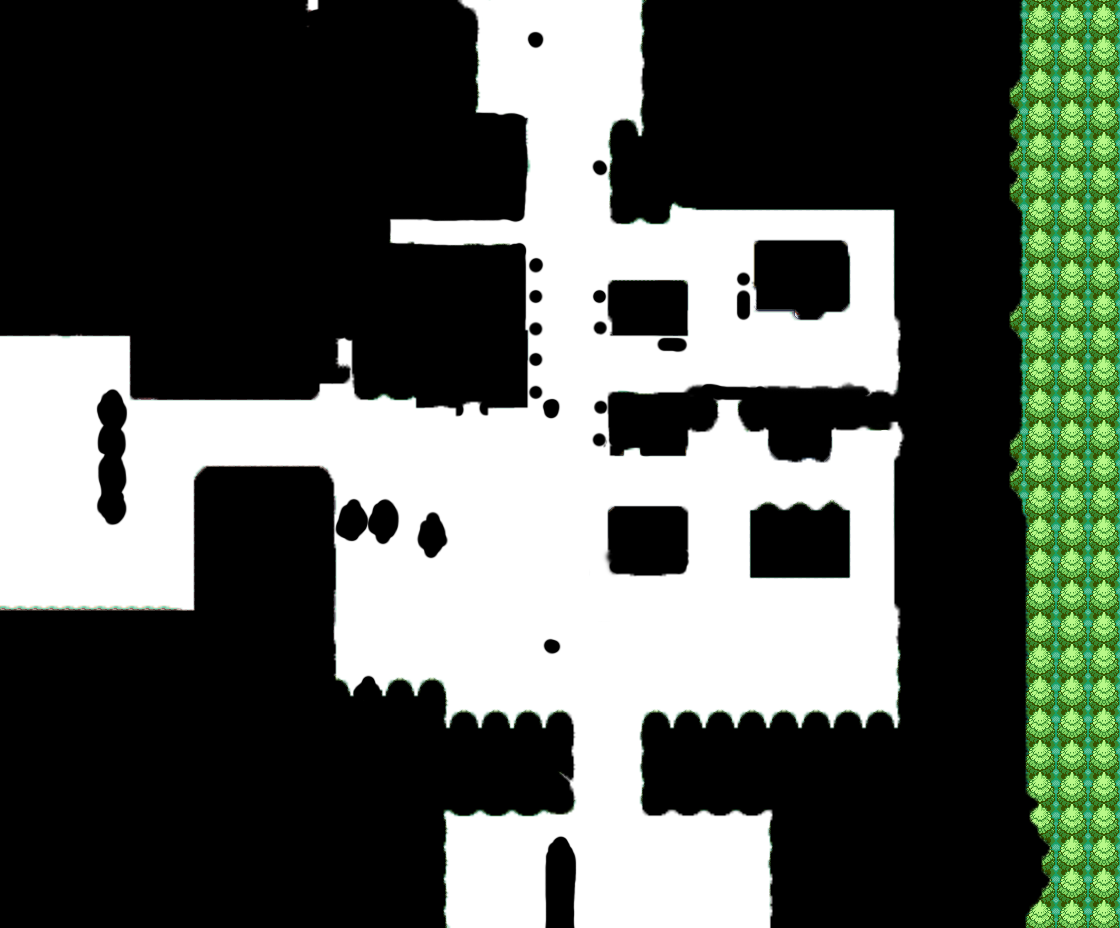
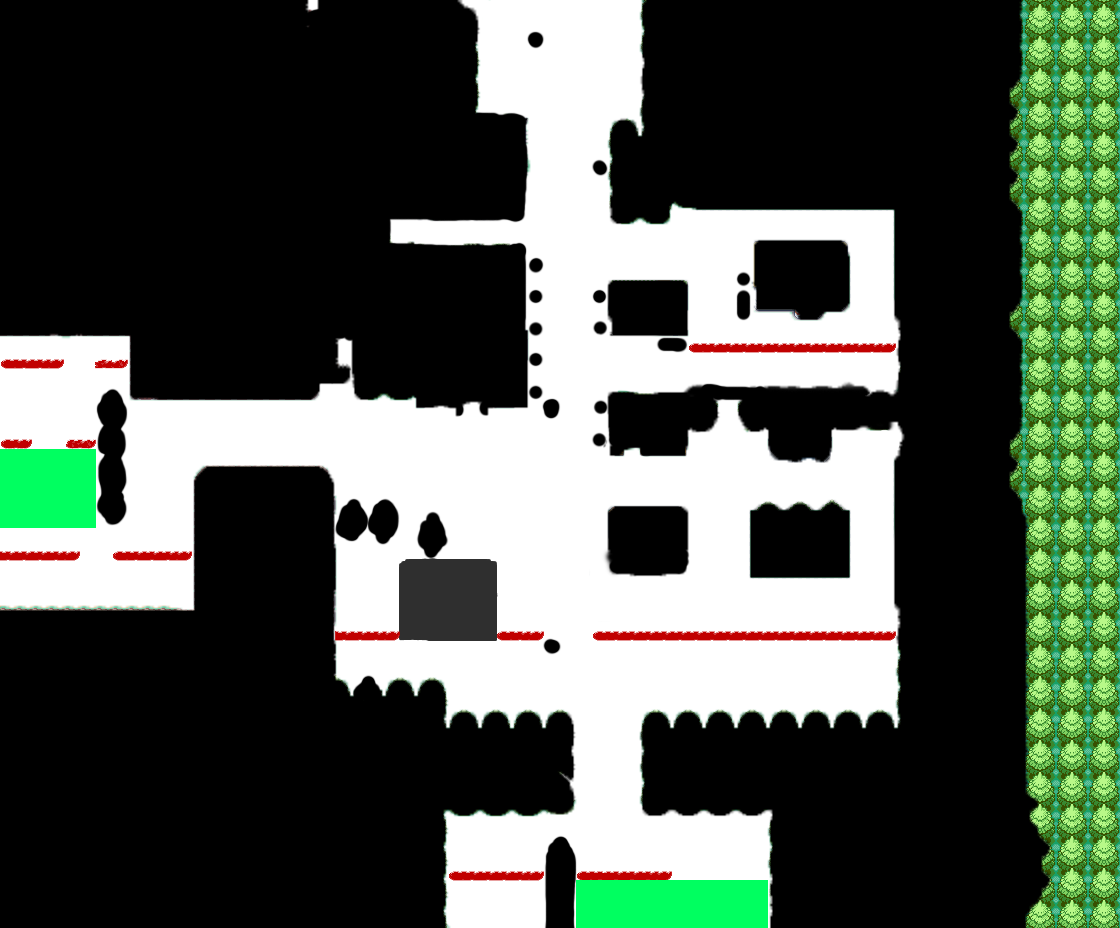
update

diff --git a/public/app.js b/public/app.js
@@ -6,6 +6,8 @@ var SimpleGame = (function () {
         this.game.load.image('background', '/bilder/background.jpg');
         this.game.load.image('Map1', '/assets/misc/Map1/Viridian_City_Map.png');
         this.game.load.image('heightmap', 'assets/misc/Map1/Heightmap.png');
+		this.game.load.image('texBox', 'assets/misc/Chat/chatBox.png');
+		this.game.load.text('text');
         this.game.load.spritesheet('button', 'assets/buttons/button_sprite_sheet.png', 100, 100);
         this.game.load.spritesheet('player', 'assets/misc/Player/Player_Sprite.png', 19, 27);
     };
@@ -27,9 +29,14 @@ var SimpleGame = (function () {
         this.player = this.game.add.sprite(300,400, 'player');
         this.player.name = "undefined";
         this.player.visible = false;
+		
+		this.texBox = this.game.add.sprite(501,1002, 'texBox');
+        this.texBox.name = "chat";
+        this.texBox.visible = false;
         //this.house = this.game.add.sprite(380,0, 'house');
         //this.house.name = "undefined";
         //this.house.visible = false;
+		
         //Reservieren der Pfeiltasten für das Spiel. Dadurch wird verhindert, dass die Scrollbars der Website nicht darauf reagieren.
         var upKey;
         var downKey;
@@ -43,18 +50,37 @@ var SimpleGame = (function () {
         this.bmd = this.game.make.bitmapData(1120, 928);
         this.bmd.draw('heightmap');
         this.bmd.update();
+		
+		
+		this.text = this.game.add.text(516,1015, "- You have clicked -\n0 times !", {
+        font: "20px Arial",
+        fill: "#ff0044",
+        align: "center"
+    });
+	this.text.visible = false;
+		
     };
     SimpleGame.prototype.update = function () {
         var speed = 2;
-  if (this.game.input.keyboard.isDown(Phaser.Keyboard.LEFT)) {
+	if (this.game.input.keyboard.isDown(Phaser.Keyboard.LEFT)) {
 			
 			var isMoveable = 0; 
+
 			for(var y = 0; y <= 27; y++)
 			{
 				if (this.bmd.getPixelRGB(this.player.x - speed, this.player.y + y).r == 0 && this.bmd.getPixelRGB(this.player.x - speed, this.player.y + y).g == 0 && this.bmd.getPixelRGB(this.player.x - speed, this.player.y + y).b == 0)
 				{
 					isMoveable = 1;
 					break;
+				}
+				else if (this.bmd.getPixelRGB(this.player.x + speed + 18, this.player.y + y).r == 0 && this.bmd.getPixelRGB(this.player.x + speed + 18, this.player.y + y).g == 255 && this.bmd.getPixelRGB(this.player.x + speed + 18, this.player.y + y).b == 96)
+				{
+					if(getRndInteger(0,4000) == 1)
+					{	
+						this.text.visible = true;
+						this.texBox.visible = true;
+						this.text.setText("Pokemon appeard");
+					}
 				}
 			}
 			if(isMoveable == 0)
@@ -70,6 +96,15 @@ var SimpleGame = (function () {
 				{
 					isMoveable = 1;
 					break;
+				}
+				else if (this.bmd.getPixelRGB(this.player.x + speed + 18, this.player.y + y).r == 0 && this.bmd.getPixelRGB(this.player.x + speed + 18, this.player.y + y).g == 255 && this.bmd.getPixelRGB(this.player.x + speed + 18, this.player.y + y).b == 96)
+				{
+					if(getRndInteger(0,4000) == 1)
+					{	
+						this.text.visible = true;
+						this.texBox.visible = true;
+						this.text.setText("Pokemon appeard");
+					}
 				}
 			}
 			if(isMoveable == 0)
@@ -89,7 +124,7 @@ var SimpleGame = (function () {
 			}
 			if(isMoveable == 0)
 				this.player.y -= speed;
-            this.player.frame = 5;
+            this.player.frame = 3;
         }
         else if (this.game.input.keyboard.isDown(Phaser.Keyboard.DOWN)) {
 			
@@ -114,6 +149,9 @@ var SimpleGame = (function () {
         //    this.game.debug.bodyInfo(this.house, 19, 27);
     };
 	
+	function getRndInteger(min, max) {
+		return Math.floor(Math.random() * (max - min + 1) ) + min;
+	}
     return SimpleGame;
 })();
 
